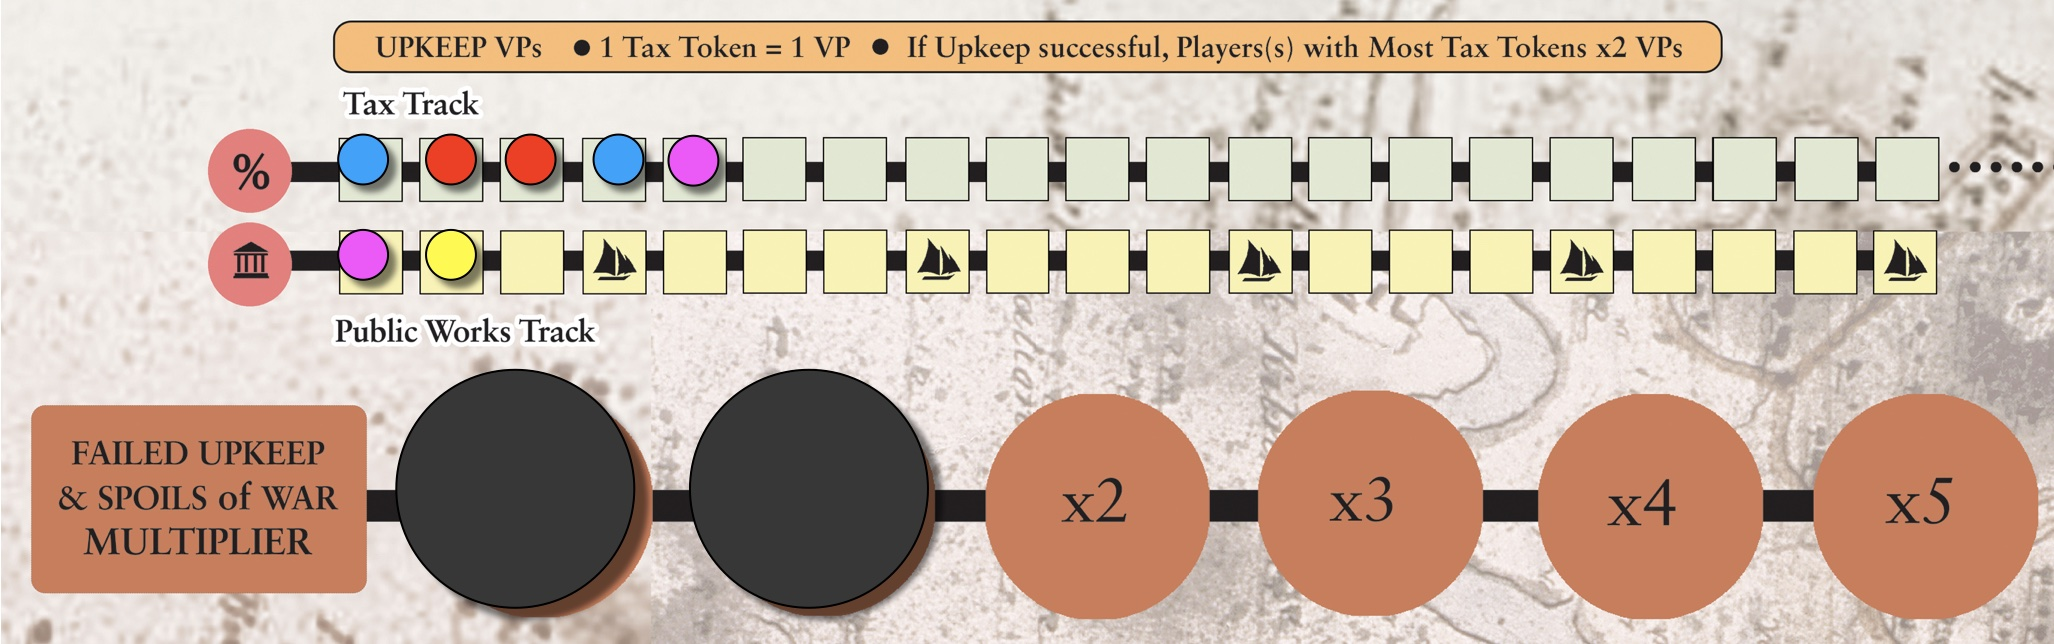
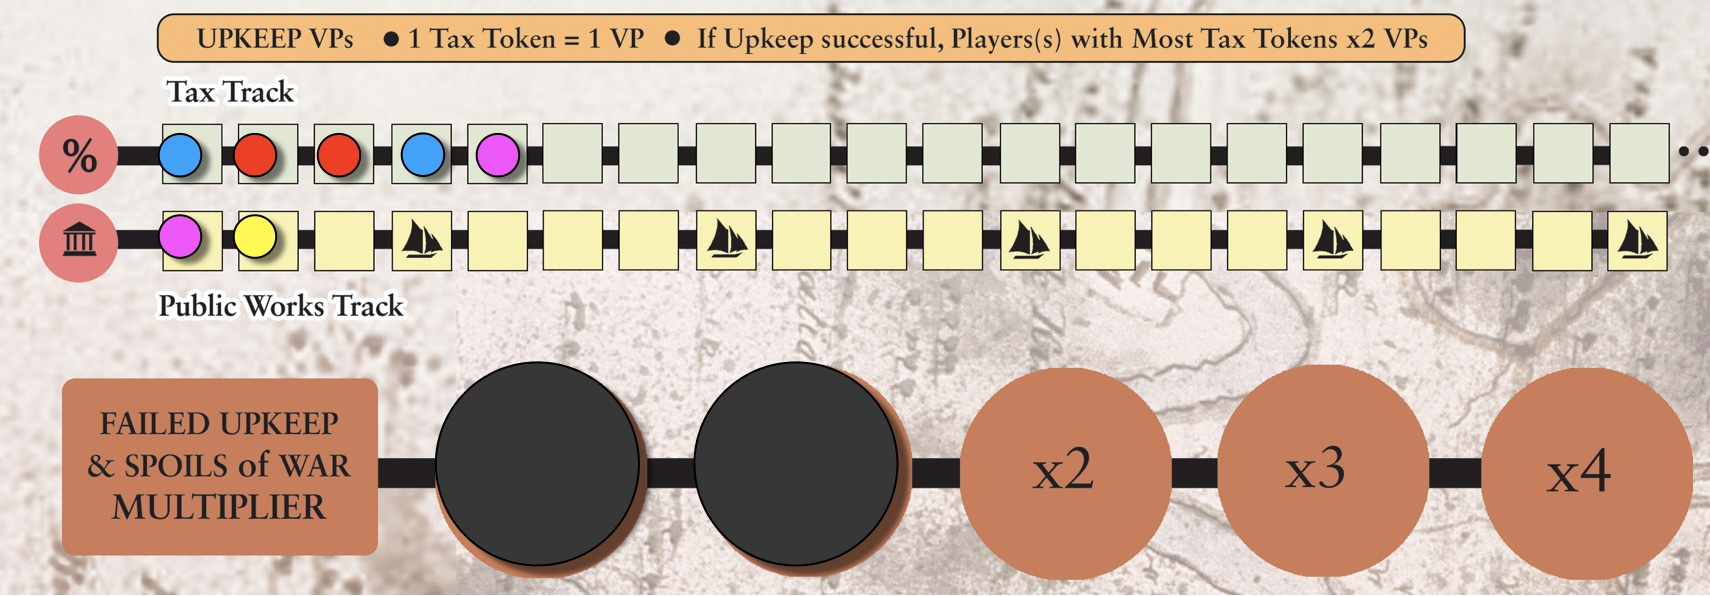
Update assets, add public works ships rule

diff --git a/icons_reference_list.md b/icons_reference_list.md
@@ -12,7 +12,7 @@ nav_order: 8
 | ![Populate](img/icons/immigrants.png) | Add *n* **Population** cubes to Districts. See [Placing Population](important-concepts#placing-population). |
 | ![Move](img/icons/move.png) | **Move** *n* cards in **your own** / <span style="color:red"><strong>any player's</strong></span> tableau. See [Moving cards](important-concepts#moving-cards). |
 | ![Wealth](img/icons/wealth.png) | Gain *x* amount of **Wealth**. |
-| ![Public Work](img/icons/public_works.png) | **Public Works** card: Add Player token to Public Works track. See [Perform Upkeep](sequence-of-play#4-perform-upkeep). |
+| ![Public Work](img/icons/public_works.png) | **Public Works** card: Add Player token to Public Works track. Add Ship if indicated. See [Perform Upkeep](sequence-of-play#4-perform-upkeep). |
 | ![Tax and Philanthropy](img/icons/tax_philanthropy.png) | **Tax** card: Add *n* **Player** / <span style="color:green"><strong>Neutral</strong></span> tokens to Tax track. See [Perform Upkeep](sequence-of-play#4-perform-upkeep). |
 | ![Special](img/icons/special.png) | **Special Action** as described on card. |
 | ![Vice and Slavery](img/icons/vice_slavery.png) | **Vice** / <span style="color:red"><strong>Slavery</strong></span> card: Can be outlawed. See [Decree](decree).  |

diff --git a/actions_buy.md b/actions_buy.md
@@ -31,7 +31,7 @@ Buy one available card from the Market, then:
 | ![Influence](img/icons/influence.png) | Place *n* **Influence** tokens on Districts. See [Placing Influence](important-concepts#placing-influence). |
 | ![Move](img/icons/move.png) | **Move** *n* cards in **your own** / <span style="color:red"><strong>any player's</strong></span> tableau. See [Moving cards](important-concepts#moving-cards). |
 | ![Wealth](img/icons/wealth.png) | Gain *x* amount of **Wealth**. |
-| ![Public Work](img/icons/public_works.png) | **Public Works** card: Add Player token to Public Works track. See [Perform Upkeep](sequence-of-play#4-perform-upkeep). |
+| ![Public Work](img/icons/public_works.png) | **Public Works** card: Add Player token to Public Works track. Add Ship if indicated. See [Perform Upkeep](sequence-of-play#4-perform-upkeep). |
 | ![Tax and Philanthropy](img/icons/tax_philanthropy.png) | **Tax** card: Add *n* **Player** / <span style="color:green"><strong>Neutral</strong></span> tokens to Tax track. See [Perform Upkeep](sequence-of-play#4-perform-upkeep). |
 | ![Special](img/icons/special.png) | **Special Action** as described on card. |
 
